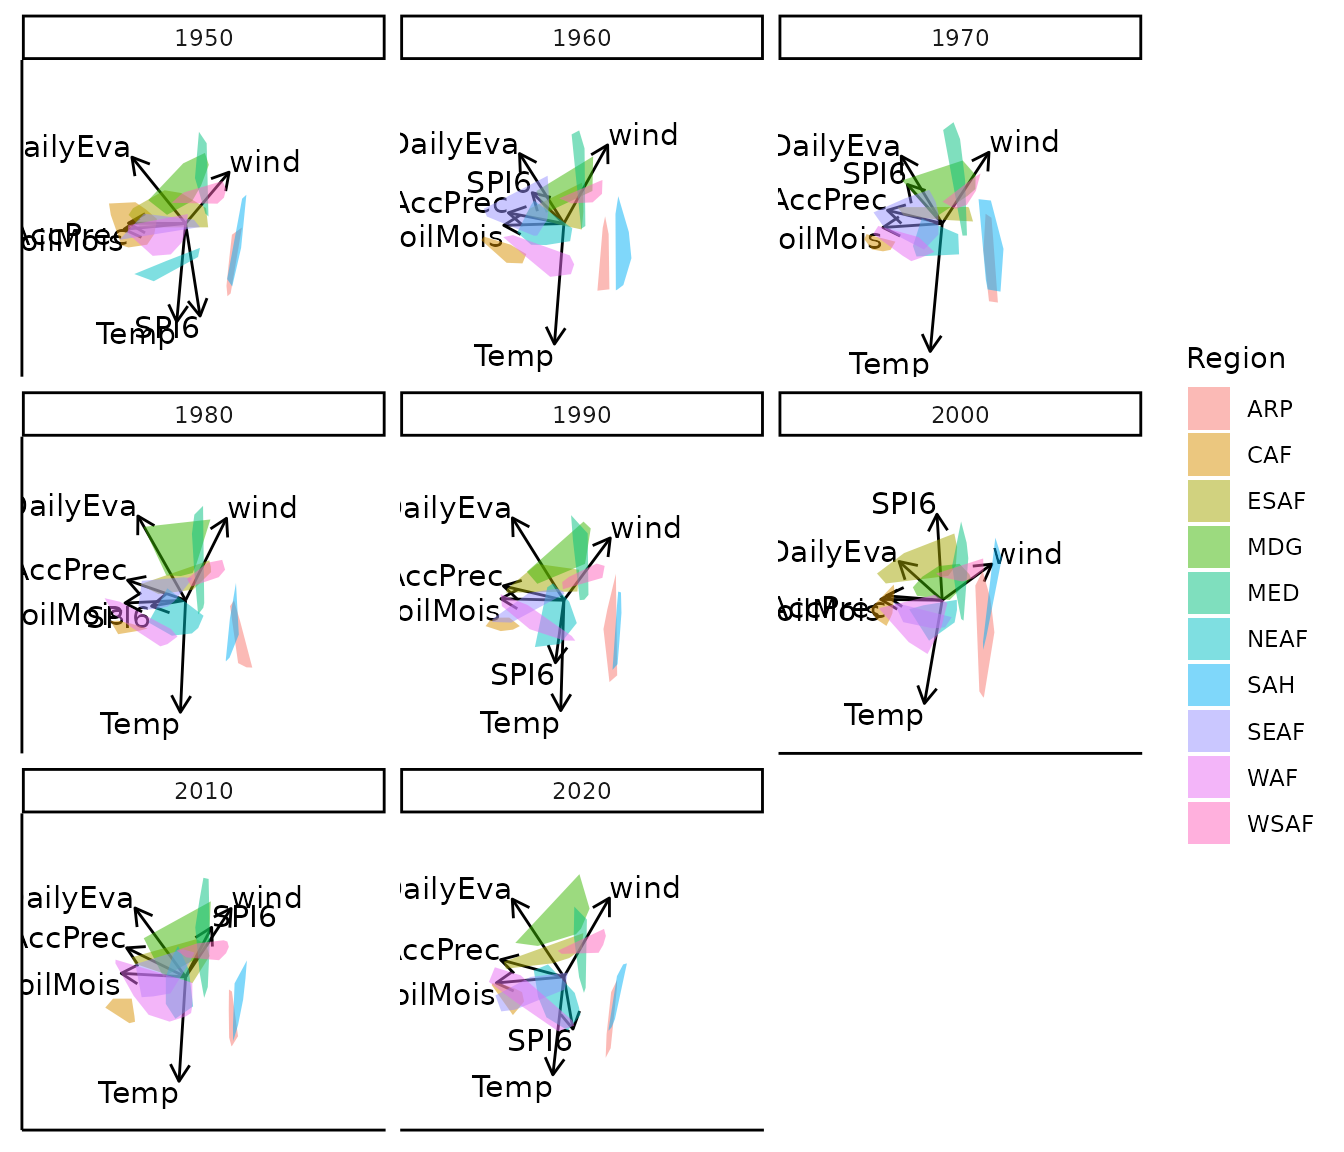
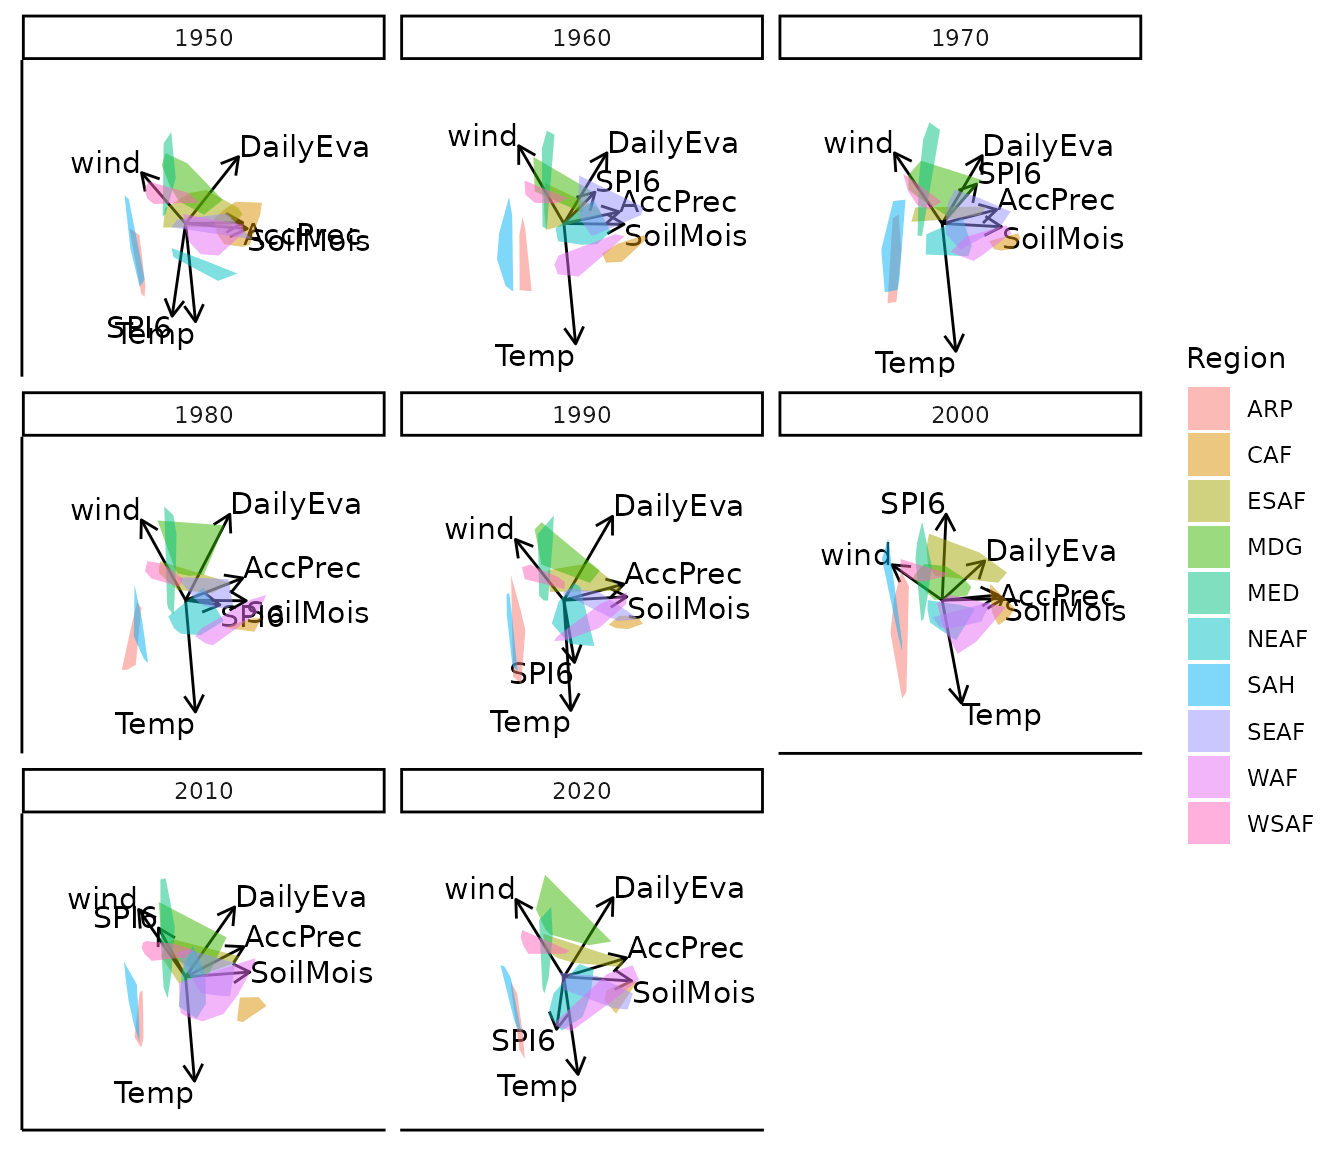
Deploying to gh-pages from @ MuViSU/moveEZ@224bba8e04c35b1311f195d4607a2c06047940cd 🚀

diff --git a/articles/moveEZ.html b/articles/moveEZ.html
@@ -320,81 +320,115 @@ establish the differences between each individual biplot and the chosen
 <code><a href="../reference/moveplot3.html">moveplot3()</a></code>. The measures are based on Orthogonal
 Procrustes analysis between the target and the specific individual
 biplot. There are three bias related measures: Absolute Mean Bias (AMB),
-Mean Bias (MB) and the Root Mean Squared Bias (RMSB). The measures
-express the <em>fit</em>, therefore, how <em>close</em> the coordinates
-of the two configurations are: Procrustes Statistic (PS) and Congruence
-Coefficient (CC). For more information on these metrics refer to <span class="citation">Nienkemper-Swanepoel, Roux, and Gardner-Lubbe
+Mean Bias (MB) and the Root Mean Squared Bias (RMSB). There are two fit
+measures: Procrustes Statistic (PS) and Congruence Coefficient (CC). For
+more information on these metrics refer to <span class="citation">Nienkemper-Swanepoel, Roux, and Gardner-Lubbe
 (2023)</span>.</p>
 <p>The evaluation measures can be extracted as follows:</p>
 <div class="sourceCode" id="cb12"><pre class="downlit sourceCode r">
 <code class="sourceCode R"><span><span class="va">results</span> <span class="op">&lt;-</span> <span class="va">bp</span> <span class="op">|&gt;</span> <span class="fu"><a href="../reference/moveplot3.html">moveplot3</a></span><span class="op">(</span>time.var <span class="op">=</span> <span class="st">"Year"</span>, group.var <span class="op">=</span> <span class="st">"Region"</span>, hulls <span class="op">=</span> <span class="cn">TRUE</span>, move <span class="op">=</span> <span class="cn">FALSE</span>, </span>
-<span>                target <span class="op">=</span> <span class="va">Africa_climate_target</span><span class="op">)</span> <span class="op">|&gt;</span> <span class="fu"><a href="../reference/evaluation.html">evaluation</a></span><span class="op">(</span><span class="op">)</span></span></code></pre></div>
+<span>                target <span class="op">=</span> <span class="cn">NULL</span><span class="op">)</span> <span class="op">|&gt;</span> <span class="fu"><a href="../reference/evaluation.html">evaluation</a></span><span class="op">(</span><span class="op">)</span></span></code></pre></div>
 <p><img src="moveEZ_files/figure-html/unnamed-chunk-13-1.png" width="672"></p>
 <div class="sourceCode" id="cb13"><pre class="downlit sourceCode r">
 <code class="sourceCode R"><span><span class="va">results</span><span class="op">$</span><span class="va">eval.list</span></span>
 <span><span class="co">#&gt; [[1]]</span></span>
 <span><span class="co">#&gt;      Target vs. 1950</span></span>
-<span><span class="co">#&gt; PS            0.2112</span></span>
-<span><span class="co">#&gt; CC            0.9556</span></span>
-<span><span class="co">#&gt; AMB           0.4976</span></span>
+<span><span class="co">#&gt; PS            0.1323</span></span>
+<span><span class="co">#&gt; CC            0.9697</span></span>
+<span><span class="co">#&gt; AMB           1.2717</span></span>
 <span><span class="co">#&gt; MB            0.0000</span></span>
-<span><span class="co">#&gt; RMSB          0.6549</span></span>
+<span><span class="co">#&gt; RMSB          1.8506</span></span>
 <span><span class="co">#&gt; </span></span>
 <span><span class="co">#&gt; [[2]]</span></span>
 <span><span class="co">#&gt;      Target vs. 1960</span></span>
-<span><span class="co">#&gt; PS            0.1738</span></span>
-<span><span class="co">#&gt; CC            0.9559</span></span>
-<span><span class="co">#&gt; AMB           1.6285</span></span>
+<span><span class="co">#&gt; PS            0.0982</span></span>
+<span><span class="co">#&gt; CC            0.9763</span></span>
+<span><span class="co">#&gt; AMB           0.4414</span></span>
 <span><span class="co">#&gt; MB            0.0000</span></span>
-<span><span class="co">#&gt; RMSB          2.3374</span></span>
+<span><span class="co">#&gt; RMSB          0.5779</span></span>
 <span><span class="co">#&gt; </span></span>
 <span><span class="co">#&gt; [[3]]</span></span>
 <span><span class="co">#&gt;      Target vs. 1970</span></span>
-<span><span class="co">#&gt; PS            0.2047</span></span>
-<span><span class="co">#&gt; CC            0.9521</span></span>
-<span><span class="co">#&gt; AMB           1.6469</span></span>
+<span><span class="co">#&gt; PS            0.0925</span></span>
+<span><span class="co">#&gt; CC            0.9798</span></span>
+<span><span class="co">#&gt; AMB           0.4373</span></span>
 <span><span class="co">#&gt; MB            0.0000</span></span>
-<span><span class="co">#&gt; RMSB          2.3450</span></span>
+<span><span class="co">#&gt; RMSB          0.5701</span></span>
 <span><span class="co">#&gt; </span></span>
 <span><span class="co">#&gt; [[4]]</span></span>
 <span><span class="co">#&gt;      Target vs. 1980</span></span>
-<span><span class="co">#&gt; PS            0.1570</span></span>
-<span><span class="co">#&gt; CC            0.9604</span></span>
-<span><span class="co">#&gt; AMB           1.5816</span></span>
+<span><span class="co">#&gt; PS            0.0771</span></span>
+<span><span class="co">#&gt; CC            0.9813</span></span>
+<span><span class="co">#&gt; AMB           0.3903</span></span>
 <span><span class="co">#&gt; MB            0.0000</span></span>
-<span><span class="co">#&gt; RMSB          2.3185</span></span>
+<span><span class="co">#&gt; RMSB          0.5501</span></span>
 <span><span class="co">#&gt; </span></span>
 <span><span class="co">#&gt; [[5]]</span></span>
 <span><span class="co">#&gt;      Target vs. 1990</span></span>
-<span><span class="co">#&gt; PS            0.1698</span></span>
-<span><span class="co">#&gt; CC            0.9603</span></span>
-<span><span class="co">#&gt; AMB           1.6250</span></span>
+<span><span class="co">#&gt; PS            0.0812</span></span>
+<span><span class="co">#&gt; CC            0.9793</span></span>
+<span><span class="co">#&gt; AMB           0.4177</span></span>
 <span><span class="co">#&gt; MB            0.0000</span></span>
-<span><span class="co">#&gt; RMSB          2.3322</span></span>
+<span><span class="co">#&gt; RMSB          0.5446</span></span>
 <span><span class="co">#&gt; </span></span>
 <span><span class="co">#&gt; [[6]]</span></span>
 <span><span class="co">#&gt;      Target vs. 2000</span></span>
-<span><span class="co">#&gt; PS            0.2472</span></span>
-<span><span class="co">#&gt; CC            0.9451</span></span>
-<span><span class="co">#&gt; AMB           1.6976</span></span>
+<span><span class="co">#&gt; PS            0.1604</span></span>
+<span><span class="co">#&gt; CC            0.9636</span></span>
+<span><span class="co">#&gt; AMB           0.5263</span></span>
 <span><span class="co">#&gt; MB            0.0000</span></span>
-<span><span class="co">#&gt; RMSB          2.3489</span></span>
+<span><span class="co">#&gt; RMSB          0.6564</span></span>
 <span><span class="co">#&gt; </span></span>
 <span><span class="co">#&gt; [[7]]</span></span>
 <span><span class="co">#&gt;      Target vs. 2010</span></span>
-<span><span class="co">#&gt; PS            0.1618</span></span>
-<span><span class="co">#&gt; CC            0.9635</span></span>
-<span><span class="co">#&gt; AMB           1.6034</span></span>
+<span><span class="co">#&gt; PS            0.0797</span></span>
+<span><span class="co">#&gt; CC            0.9813</span></span>
+<span><span class="co">#&gt; AMB           0.4337</span></span>
 <span><span class="co">#&gt; MB            0.0000</span></span>
-<span><span class="co">#&gt; RMSB          2.3178</span></span>
+<span><span class="co">#&gt; RMSB          0.5428</span></span>
 <span><span class="co">#&gt; </span></span>
 <span><span class="co">#&gt; [[8]]</span></span>
 <span><span class="co">#&gt;      Target vs. 2020</span></span>
-<span><span class="co">#&gt; PS            0.1277</span></span>
-<span><span class="co">#&gt; CC            0.9712</span></span>
-<span><span class="co">#&gt; AMB           1.5778</span></span>
+<span><span class="co">#&gt; PS            0.0695</span></span>
+<span><span class="co">#&gt; CC            0.9814</span></span>
+<span><span class="co">#&gt; AMB           0.3914</span></span>
 <span><span class="co">#&gt; MB            0.0000</span></span>
-<span><span class="co">#&gt; RMSB          2.2826</span></span></code></pre></div>
+<span><span class="co">#&gt; RMSB          0.5069</span></span></code></pre></div>
+<p>To ease interpretation, especially when there is a large number of
+time points, separate line plots are available for the fit and bias
+measures.</p>
+<div class="section level3">
+<h3 id="the-fit-measures">The fit measures<a class="anchor" aria-label="anchor" href="#the-fit-measures"></a>
+</h3>
+<p>The Procrustes Statistics(PS) and Congruence Coefficient (CC) is
+bounded by zero and one. A small PS value (close to zero) and a large CC
+value (close to one) indicate good fit. These measures express the
+magnitude of changes that has to be made for a particular biplot to
+match the target visualisation. Therefore, they measure how
+<em>close</em> the coordinates of the two configurations are.</p>
+<div class="sourceCode" id="cb14"><pre class="downlit sourceCode r">
+<code class="sourceCode R"><span><span class="va">results</span><span class="op">$</span><span class="va">fit.plot</span></span></code></pre></div>
+<p><img src="moveEZ_files/figure-html/unnamed-chunk-15-1.png" width="672"></p>
+<p>The line plot shows that the biplot of 2000 results in a lower CC and
+larger PS value compared to the other years. This means that there is a
+noticeable difference between the year 2000 and the average across years
+and the measurements of 2000 should be investigated in more detail to
+understand the cause of this difference.</p>
+</div>
+<div class="section level3">
+<h3 id="the-bias-measures">The bias measures<a class="anchor" aria-label="anchor" href="#the-bias-measures"></a>
+</h3>
+<p>Low values for the Absolute Mean Bias (AMB), Mean Bias (MB) and the
+Root Mean Squared Bias (RMSB) reflect unbiased representation between a
+biplot and the target it is being matched to.</p>
+<div class="sourceCode" id="cb15"><pre class="downlit sourceCode r">
+<code class="sourceCode R"><span><span class="va">results</span><span class="op">$</span><span class="va">bias.plot</span></span></code></pre></div>
+<p><img src="moveEZ_files/figure-html/unnamed-chunk-16-1.png" width="672"></p>
+<p>The line plot shows that the initial bias is high, but decreases and
+stabilises from 1960 with an increase in both the AMB and RMSB occurring
+for 2000. This is in agreement with the fit measures. The MB stays
+constant and close to zero for all comparisons.</p>
+</div>
 </div>
 <div class="section level2">
 <h2 id="still-to-come">Still to Come!<a class="anchor" aria-label="anchor" href="#still-to-come"></a>

diff --git a/reference/evaluation.html b/reference/evaluation.html
@@ -69,6 +69,12 @@ Mean Bias (MB) and Root Mean Squared Bias (RMSB).</p>
 <dl><dt>eval.list</dt>
 <dd><p>Returns a list containing the measures of comparison for each level of the time variable.</p></dd>
 
+<dt>fit.plot</dt>
+<dd><p>Returns a line plot with the fit measures that are bounded between zero and one: PS and CC. A small PS value and large CC value indicate good fit.</p></dd>
+
+<dt>bias.plot</dt>
+<dd><p>Returns a line plot with bias measures taht are unbounded: AMB, MB and RMSB. Small values indicate low bias.</p></dd>
+
 </dl></div>
 
     <div class="section level2">
@@ -144,13 +150,17 @@ Mean Bias (MB) and Root Mean Squared Bias (RMSB).</p>
 <span class="r-out co"><span class="r-pr">#&gt;</span> MB            0.0000</span>
 <span class="r-out co"><span class="r-pr">#&gt;</span> RMSB          0.5069</span>
 <span class="r-out co"><span class="r-pr">#&gt;</span> </span>
+<span class="r-in"><span><span class="va">results</span><span class="op">$</span><span class="va">fit.plot</span></span></span>
+<span class="r-plt img"><img src="evaluation-2.png" alt="" width="700" height="433"></span>
+<span class="r-in"><span><span class="va">results</span><span class="op">$</span><span class="va">bias.plot</span></span></span>
+<span class="r-plt img"><img src="evaluation-3.png" alt="" width="700" height="433"></span>
 <span class="r-in"><span></span></span>
 <span class="r-in"><span><span class="fu"><a href="https://rdrr.io/r/utils/data.html" class="external-link">data</a></span><span class="op">(</span><span class="va">Africa_climate</span><span class="op">)</span></span></span>
 <span class="r-in"><span><span class="fu"><a href="https://rdrr.io/r/utils/data.html" class="external-link">data</a></span><span class="op">(</span><span class="va">Africa_climate_target</span><span class="op">)</span></span></span>
 <span class="r-in"><span><span class="va">bp</span> <span class="op">&lt;-</span> <span class="fu">biplotEZ</span><span class="fu">::</span><span class="fu"><a href="https://rdrr.io/pkg/biplotEZ/man/biplot.html" class="external-link">biplot</a></span><span class="op">(</span><span class="va">Africa_climate</span>, scaled <span class="op">=</span> <span class="cn">TRUE</span><span class="op">)</span> <span class="op">|&gt;</span> <span class="fu">biplotEZ</span><span class="fu">::</span><span class="fu"><a href="https://rdrr.io/pkg/biplotEZ/man/PCA.html" class="external-link">PCA</a></span><span class="op">(</span><span class="op">)</span></span></span>
 <span class="r-in"><span><span class="va">results</span> <span class="op">&lt;-</span> <span class="va">bp</span> <span class="op">|&gt;</span> <span class="fu"><a href="moveplot3.html">moveplot3</a></span><span class="op">(</span>time.var <span class="op">=</span> <span class="st">"Year"</span>, group.var <span class="op">=</span> <span class="st">"Region"</span>, hulls <span class="op">=</span> <span class="cn">TRUE</span>,</span></span>
 <span class="r-in"><span>move <span class="op">=</span> <span class="cn">FALSE</span>, target <span class="op">=</span> <span class="va">Africa_climate_target</span><span class="op">)</span> <span class="op">|&gt;</span> <span class="fu">evaluation</span><span class="op">(</span><span class="op">)</span></span></span>
-<span class="r-plt img"><img src="evaluation-2.png" alt="" width="700" height="433"></span>
+<span class="r-plt img"><img src="evaluation-4.png" alt="" width="700" height="433"></span>
 <span class="r-in"><span><span class="va">results</span><span class="op">$</span><span class="va">eval.list</span></span></span>
 <span class="r-out co"><span class="r-pr">#&gt;</span> [[1]]</span>
 <span class="r-out co"><span class="r-pr">#&gt;</span>      Target vs. 1950</span>
@@ -216,6 +226,10 @@ Mean Bias (MB) and Root Mean Squared Bias (RMSB).</p>
 <span class="r-out co"><span class="r-pr">#&gt;</span> MB            0.0000</span>
 <span class="r-out co"><span class="r-pr">#&gt;</span> RMSB          2.2826</span>
 <span class="r-out co"><span class="r-pr">#&gt;</span> </span>
+<span class="r-in"><span><span class="va">results</span><span class="op">$</span><span class="va">fit.plot</span></span></span>
+<span class="r-plt img"><img src="evaluation-5.png" alt="" width="700" height="433"></span>
+<span class="r-in"><span><span class="va">results</span><span class="op">$</span><span class="va">bias.plot</span></span></span>
+<span class="r-plt img"><img src="evaluation-6.png" alt="" width="700" height="433"></span>
 <span class="r-in"><span></span></span>
 </code></pre></div>
     </div>
